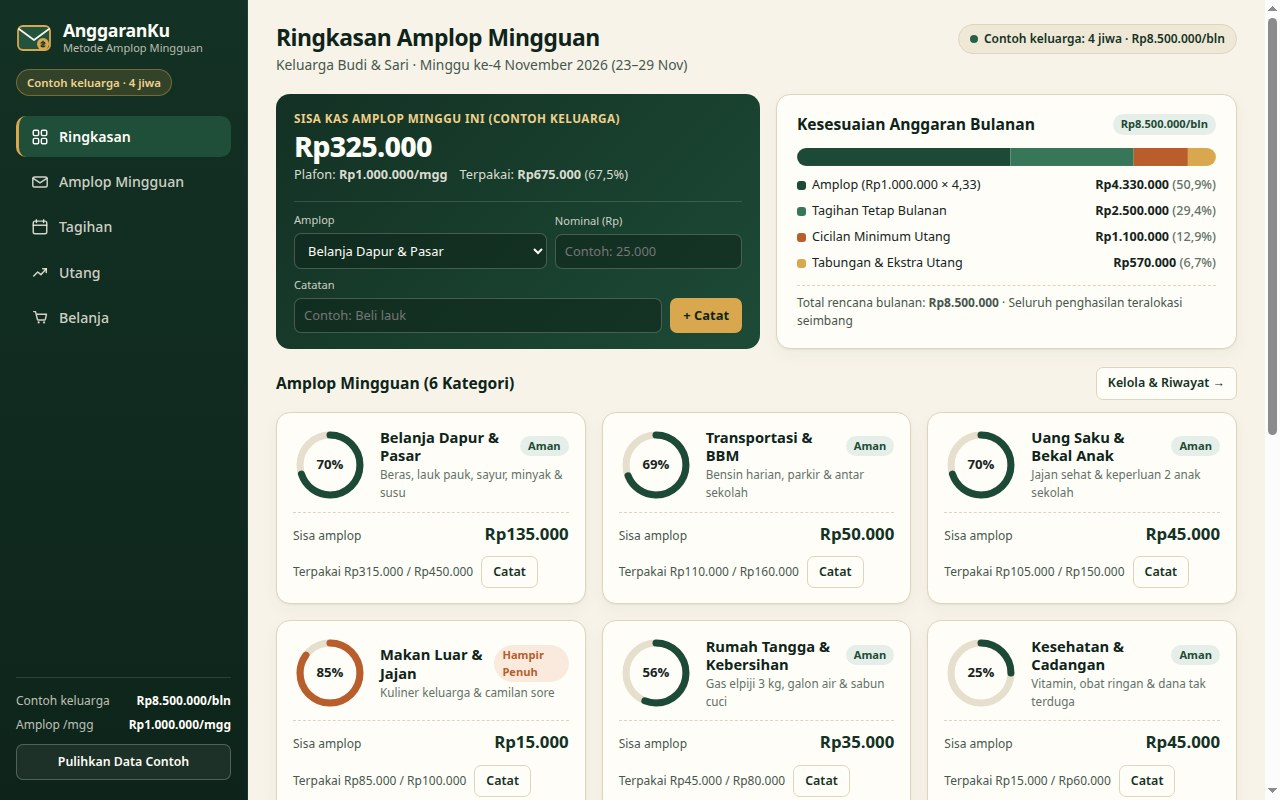
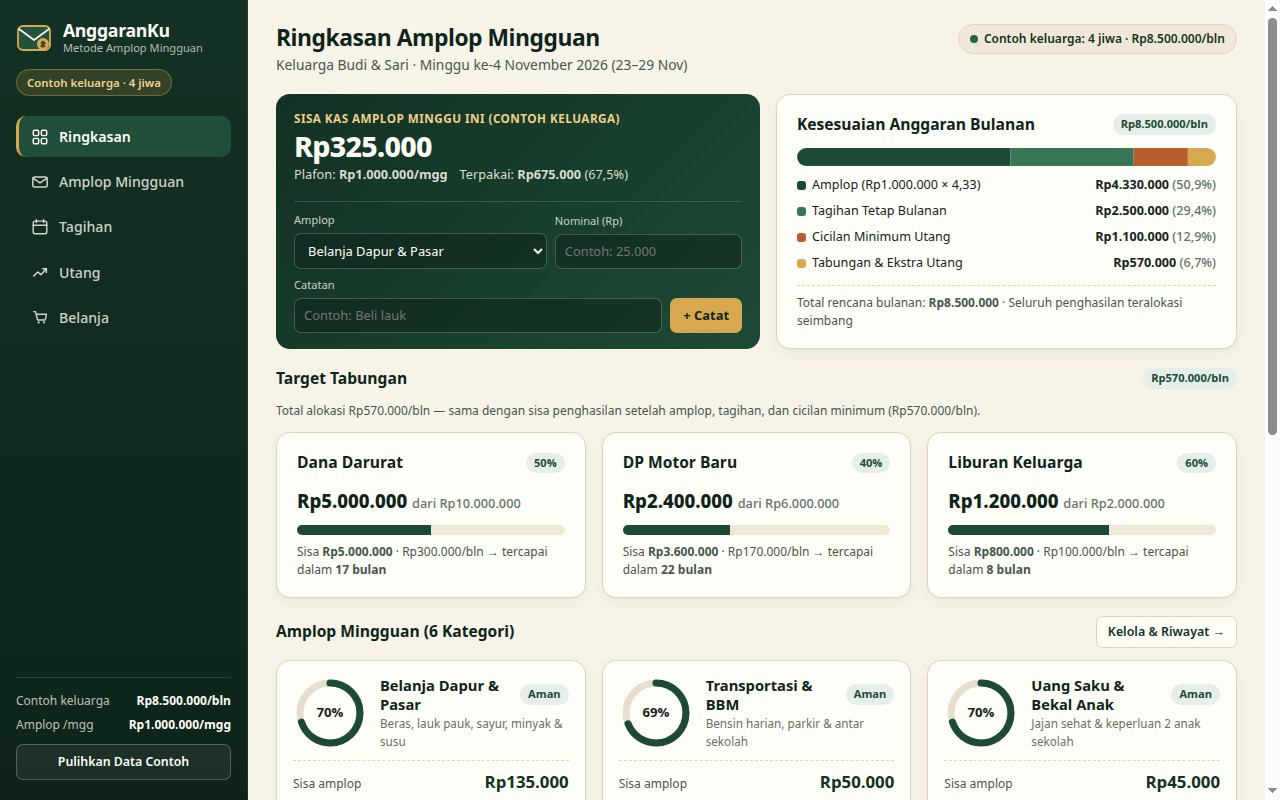
AnggaranKu v3-agy — Round 2 improvements: Target Tabungan above hero (visible in shot 1), shot 4 is phone Tagihan page, Bayar inputs value→placeholder with empty=minimum, full placeholders, one-line phone nav

diff --git a/app/views/debt.js b/app/views/debt.js
@@ -32,6 +32,8 @@ export function render() {
       const mInterest = monthlyInterestOf(d);
       const payoffM = d.balance === 0 ? 0 : extraSim.payoffMonths[d.id] ?? extraSim.months;
       const isPaidOff = d.balance <= 0;
+      const defaultPay = Math.min(d.balance, d.minPayment);
+      const defaultPlaceholder = formatIDR(defaultPay).replace(/^Rp/, '');
       return `<article class="card" style="padding:16px;">
         <div class="card-title-row">
           <h3>${escapeHtml(d.name)}</h3>
@@ -46,7 +48,7 @@ export function render() {
         </div>
         <div class="row-actions" style="justify-content:space-between;">
           ${isPaidOff ? '<span class="badge badge-ok">Terlunasi</span>' : `<form class="inline-edit-box" data-form="pay-debt" data-id="${escapeHtml(d.id)}">
-            <input type="number" name="amount" min="10000" step="10000" value="${Math.min(d.balance, d.minPayment)}" aria-label="Bayar ${escapeHtml(d.name)}">
+            <input type="number" name="amount" min="10000" step="10000" placeholder="Contoh: ${escapeHtml(defaultPlaceholder)}" aria-label="Bayar ${escapeHtml(d.name)}">
             <button type="submit" class="btn-primary">Bayar</button>
           </form>`}
           <button type="button" class="btn-danger-ghost" data-action="del-debt" data-id="${escapeHtml(d.id)}">Hapus</button>
@@ -187,7 +189,13 @@ export function mount(root, { rerender, notify }) {
     payForm.addEventListener('submit', (ev) => {
       ev.preventDefault();
       const id = payForm.getAttribute('data-id');
-      const amt = new FormData(payForm).get('amount');
+      const rawAmt = String(new FormData(payForm).get('amount') ?? '').trim();
+      let amt = rawAmt;
+      if (rawAmt === '') {
+        const debt = getState().debts.find((d) => d.id === id);
+        if (!debt || debt.balance <= 0) return;
+        amt = Math.min(debt.balance, debt.minPayment);
+      }
       if (recordDebtPayment(id, amt)) {
         notify('Pembayaran utang dicatat dan saldo diperbarui.');
         rerender();

diff --git a/app/views/dashboard.js b/app/views/dashboard.js
@@ -129,16 +129,6 @@ export function render() {
     </div>
   </section>
 
-  <section aria-label="Progres amplop per kategori">
-    <div class="card-title-row">
-      <h2>Amplop Mingguan (6 Kategori)</h2>
-      <a href="#/amplop" class="btn-outline">Kelola & Riwayat &rarr;</a>
-    </div>
-    <div class="grid-3">
-      ${state.envelopes.map((env) => renderEnvelopeCard(env)).join('')}
-    </div>
-  </section>
-
   <section aria-label="Target tabungan">
     <div class="card-title-row">
       <h2>Target Tabungan</h2>
@@ -149,6 +139,16 @@ export function render() {
     </p>
     <div class="grid-3">
       ${goalCards}
+    </div>
+  </section>
+
+  <section aria-label="Progres amplop per kategori">
+    <div class="card-title-row">
+      <h2>Amplop Mingguan (6 Kategori)</h2>
+      <a href="#/amplop" class="btn-outline">Kelola & Riwayat &rarr;</a>
+    </div>
+    <div class="grid-3">
+      ${state.envelopes.map((env) => renderEnvelopeCard(env)).join('')}
     </div>
   </section>
 

diff --git a/app/styles.css b/app/styles.css
@@ -844,6 +844,11 @@ select {
   font-size: 0.83rem;
 }
 
+.inline-edit-box[data-form="pay-debt"] input {
+  width: 134px;
+  padding: 5px 6px;
+}
+
 @media (max-width: 960px) {
   .grid-3 {
     grid-template-columns: repeat(2, minmax(0, 1fr));
@@ -963,5 +968,22 @@ select {
   .row-actions {
     width: 100%;
     justify-content: space-between;
+  }
+}
+
+@media (max-width: 480px) {
+  .nav {
+    gap: 3px;
+  }
+  .nav-link {
+    padding: 5px 6px;
+    font-size: 0.72rem;
+    gap: 3px;
+    white-space: nowrap;
+  }
+  .nav-link svg {
+    width: 12px;
+    height: 12px;
+    flex-shrink: 0;
   }
 }
